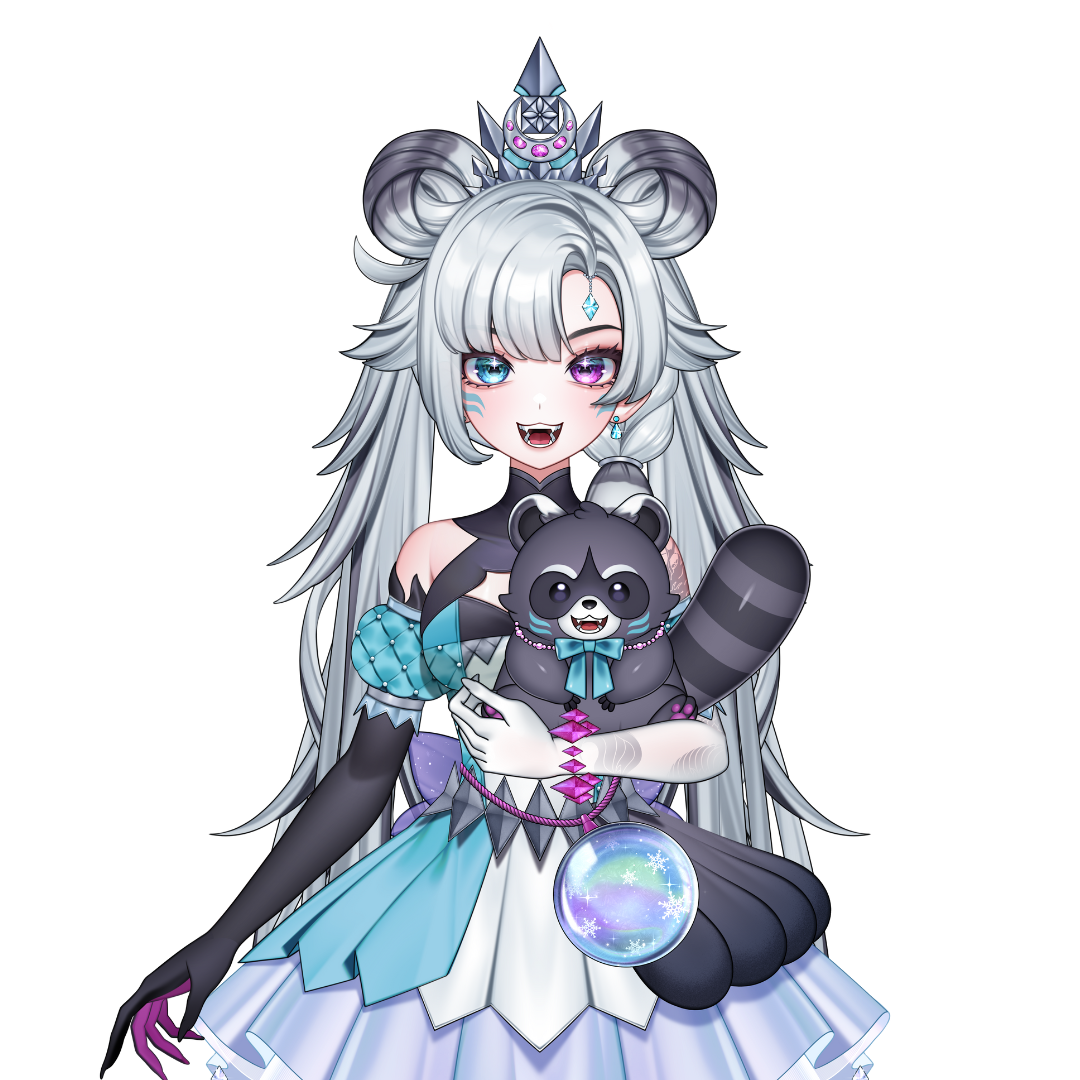
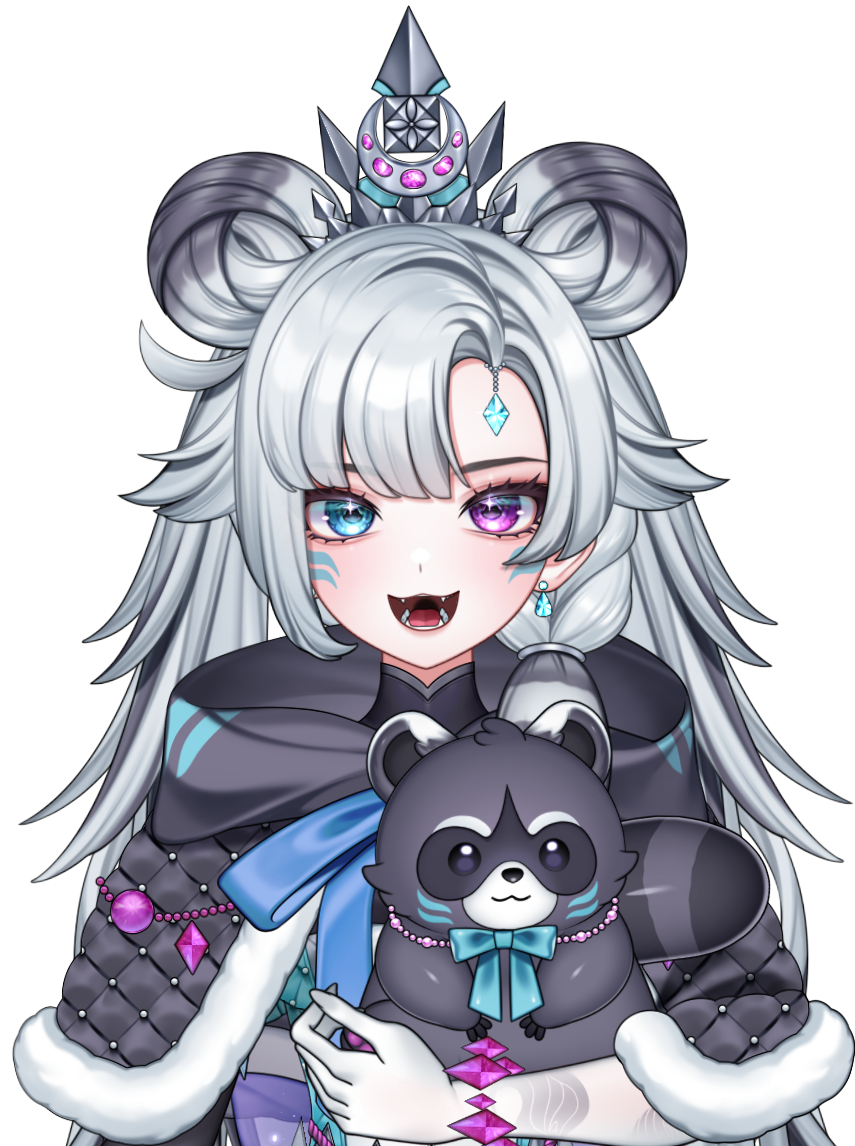
added special guests, added vtuber section, brought back and updated cosplay contest page

diff --git a/src/routes/special-guests/+page.svelte b/src/routes/special-guests/+page.svelte
@@ -1,5 +1,6 @@
 <script>
   import { guests } from './guests.js';
+  import { vtubers } from './vtuber-guests.js';
   import { fade, slide } from 'svelte/transition';
   import Navbar from '$lib/components/Navbar.svelte';
   import Footer from '$lib/components/Footer.svelte';
@@ -9,6 +10,17 @@
   const filledGuests = [
     ...guests,
     ...Array.from({ length: maxGuests - guests.length }, () => ({
+      name: "Coming Soon...",
+      socials: null,
+      image: "/images/mystery.png",
+      blurb: null,
+      comingSoon: true
+    }))
+  ];
+
+  const filledVTuberGuests = [
+    ...vtubers,
+    ...Array.from({ length: maxGuests - vtubers.length }, () => ({
       name: "Coming Soon...",
       socials: null,
       image: "/images/mystery.png",
@@ -36,6 +48,94 @@
 <div  class="container mx-auto px-4 py-12">
 <div class="grid grid-cols-1 sm:grid-cols-3 lg:grid-cols-3 gap-6 items-start">
   {#each filledGuests as guest, i (i)}
+    <div class="bg-gray-50 rounded-lg shadow flex flex-col">
+      <!-- Image area: clickable for real guests, static for coming soon -->
+          <div>
+            <!-- Clickable image -->
+            <!-- Image with overlay -->
+            <div 
+              class="relative cursor-pointer group"
+              on:click={() => toggleDescription(i)}
+            >
+              <img
+                src={guest.image}
+                alt={guest.name}
+                class="w-full aspect-square object-contain bg-gray-100"
+              />
+
+              <!-- Overlay -->
+              <div
+                class="absolute inset-0 bg-black bg-opacity-40 opacity-0 
+                      group-hover:opacity-100 transition flex items-center 
+                      justify-center text-white text-lg font-semibold"
+              >
+                Click to learn more
+              </div>
+            </div>
+
+            <!-- Name always visible -->
+            <p class="text-2xl my-2 font-semibold text-gray-900 text-center">{guest.name}</p>
+
+            <!-- Description only shows when expanded[i] is true -->
+            {#if expanded[i]}
+              <div transition:slide|local class="bg-gray-50 rounded-b-lg p-3">
+              {#if guest.blurb}
+                <p class="mt-1 text-sm text-gray-600" style="white-space: pre-line;">{guest.blurb}</p>
+              {/if}
+
+              {#if guest.socials}
+              <div class="text-center">
+                {#if guest.social_type === "instagram"}
+                <a
+                  class="inline-block mt-3 text-pink-500 hover:text-pink-600"
+                  href={guest.socials}
+                  target="_blank"
+                  rel="noopener noreferrer"
+                  aria-label="Follow on Instagram"
+                >
+                  <!-- Instagram Flat Icon SVG -->
+                  <svg
+                    xmlns="http://www.w3.org/2000/svg"
+                    viewBox="0 0 32 32"
+                    fill="currentColor"
+                    class="w-10 h-10"
+                  >
+                    <path d="M20.445 5h-8.891A6.559 6.559 0 0 0 5 11.554v8.891A6.559 6.559 0 0 0 11.554 27h8.891a6.56 6.56 0 0 0 6.554-6.555v-8.891A6.557 6.557 0 0 0 20.445 5zm4.342 15.445a4.343 4.343 0 0 1-4.342 4.342h-8.891a4.341 4.341 0 0 1-4.341-4.342v-8.891a4.34 4.34 0 0 1 4.341-4.341h8.891a4.342 4.342 0 0 1 4.341 4.341l.001 8.891z"/><path d="M16 10.312c-3.138 0-5.688 2.551-5.688 5.688s2.551 5.688 5.688 5.688 5.688-2.551 5.688-5.688-2.55-5.688-5.688-5.688zm0 9.163a3.475 3.475 0 1 1-.001-6.95 3.475 3.475 0 0 1 .001 6.95zM21.7 8.991a1.363 1.363 0 1 1-1.364 1.364c0-.752.51-1.364 1.364-1.364z"/>
+                  </svg>
+                </a>
+                {/if}
+                {#if guest.social_type === 'youtube'}
+                <a
+                  class="inline-block mt-3 text-red-500 hover:text-red-600"
+                  href={guest.socials}
+                  target="_blank"
+                  rel="noopener noreferrer"
+                  aria-label="Subscribe on YouTube"
+                >
+                <svg xmlns="http://www.w3.org/2000/svg" fill="currentColor" class="w-10 h-10" viewBox="0 0 16 15.5">
+                  <path d="M8.051 1.999h.089c.822.003 4.987.033 6.11.335a2.01 2.01 0 0 1 1.415 1.42c.101.38.172.883.22 1.402l.01.104.022.26.008.104c.065.914.073 1.77.074 1.957v.075c-.001.194-.01 1.108-.082 2.06l-.008.105-.009.104c-.05.572-.124 1.14-.235 1.558a2.01 2.01 0 0 1-1.415 1.42c-1.16.312-5.569.334-6.18.335h-.142c-.309 0-1.587-.006-2.927-.052l-.17-.006-.087-.004-.171-.007-.171-.007c-1.11-.049-2.167-.128-2.654-.26a2.01 2.01 0 0 1-1.415-1.419c-.111-.417-.185-.986-.235-1.558L.09 9.82l-.008-.104A31 31 0 0 1 0 7.68v-.123c.002-.215.01-.958.064-1.778l.007-.103.003-.052.008-.104.022-.26.01-.104c.048-.519.119-1.023.22-1.402a2.01 2.01 0 0 1 1.415-1.42c.487-.13 1.544-.21 2.654-.26l.17-.007.172-.006.086-.003.171-.007A100 100 0 0 1 7.858 2zM6.4 5.209v4.818l4.157-2.408z"/>
+                </svg>
+                </a>
+                {/if}
+                </div>
+              {/if}
+              </div>
+            {/if}
+          </div>
+      </div>
+
+          
+  {/each}
+</div>
+
+<div  class="container mx-auto px-4 py-12"></div>
+
+<div class="container mx-auto  px-4 py-4">
+    <p>We're also excited to announce our special Vtuber guest lineup for Anime Destiny 2026! Click on each image to learn about them.</p>
+  </div>
+<div  class="container mx-auto px-4 py-12"></div>
+<div class="grid grid-cols-1 sm:grid-cols-3 lg:grid-cols-3 gap-6 items-start">
+  {#each filledVTuberGuests as guest, i (i)}
     <div class="bg-gray-50 rounded-lg shadow flex flex-col">
       <!-- Image area: clickable for real guests, static for coming soon -->
           <div>

diff --git a/src/routes/cosplay-contest/+page.svelte b/src/routes/cosplay-contest/+page.svelte
@@ -6,28 +6,28 @@
   const judges = [
     
     {
-      name: "Astro (astros_here)",
+      name: "Cesseciel",
       description: "_______________",
-      intro: "Meet Astro ( astros_here ) a 55+ Award winning master level competitive cosplayer from central California! They specialize in sewing and needlework but dabbles is alot of different mediums and materials! Astro knows a plethora of techniques and skills! They have competed and judges all over the United states and have been published in magazines before! They have been cosplaying for 8 years and have made well over 30+ unique costumes! Astro is also a chronically ill/disabled and queer cosplayer who wants to carve out a space for everyone within the cosplay community! Come meet and talk shop with Astro! They are always willing to give advice on cosplay, build books and more!",
-      socialLink: "https://www.instagram.com/astros_here/",
-      socialName: "@astros_here",
-      imageUrl: "images/AnimeDestiny-2025CosplayGuestAstro.jpg"
+      intro: "Cesseciel (He/They), also known as Ciel, is a cosplayer, performer, and seamstress based in the Bay Area. He has been sewing since the age of four and has been crafting his own cosplays since he first began attending conventions in 2013. Ciel can often be found onstage performing idol dance covers or with his fellow maids at the Ai Hoshi Cafe!",
+      socialLink: "https://www.instagram.com/cesseciel",
+      socialName: "@cesseciel",
+      imageUrl: "/images/guests/Cesseciel Photo.png"
     },
     {
-      name: "Elee (theacalix)",
+      name: "Tytalis",
       description: "_______________",
-      intro: "Theacalix is a masters level cosplayer with 13 years of experience. They specialize in sewing craftsmanship builds across a variety of media with a specialty in original design. Thea loves to chat about cosplay, craftsmanship, and fandom so come say hi!",
-      socialLink: "https://www.instagram.com/theacalix/",
-      socialName: "@theacalix",
-      imageUrl: "images/AnimeDestiny-2025CosplayGuestThecalix.jpg"
+      intro: "Tytalis Cosplay has been cosplaying since 2012, and has won several awards for her work and performances from cons like Anime Los Angeles and San Diego Comic Con. Her love of cosplay inspired her to pursue engineering, and she received her Master of Engineering from UC Berkeley in 2019! She is self taught, and believes that cosplay is for everyone, and wants to inspire others to follow their passions.",
+      socialLink: "https://www.instagram.com/tytalis",
+      socialName: "@tytalis",
+      imageUrl: "/images/guests/Tytalis Photo.jpeg"
     },
     {
-      name: "Max (Deadgoatcos)",
+      name: "Cosmic Peachz",
       description: "_______________",
-      intro: "Deadgoatcos is excited for her first guesting experience. With her 7 years of cosplaying and certificate of costume design she is so happy to share her knowledge and expertise with the con goers. Thank you Anime Destiny for allowing me this opportunity. See everyone at con!!",
-      socialLink: "https://www.instagram.com/deadgoatcos/",
-      socialName: "@deadgoatcos",
-      imageUrl: "images/AnimeDestiny-2025CosplayGuestDeadgoatcos.jpg"
+      intro: "Cosmic Peachz (she/they), also known as Caroline, originally from SoCal, is now a NorCal based cosplayer who has been cosplaying since 2011, sewing since 2013 and competing since 2014. With a few awards under her belt for both sewing and performance, Cosmic Peachz is excited to see what contestants will bring to the event!",
+      socialLink: "https://www.instagram.com/cosmic.peachz",
+      socialName: "@cosmic.peachz",
+      imageUrl: "/images/guests/Cosmic Peachz Photo.jpg"
     }
   ];
 
@@ -99,6 +99,13 @@
           Join Berkeley’s cosplayers for a fun and welcoming event! Show off your cosplaying skills or just enjoy watching the amazing talent at Anime Destiny.
           Anyone who has a costume and is interested is welcome to join! Whether you're a seasoned cosplayer or it's your first time, we'd love to see you there!
           Sign up here: <a href="https://forms.gle/hXUxzeVHSgghcyyh8" target="_blank" class="section-link">Cosplay Sign-Up Form</a>  
+        </p>
+        <div class="spacer"></div>
+        <p>
+          Costume pre-judging will take place <strong>starting from 10:00AM until 11:30AM</strong> during the course of the <strong>"Cosplay Contest 101"</strong> panel with our judges! Please find the judges at any time until 11:30AM to have your costume pre-judged. <strong>*For hand-made costumes only - judging for craftsmanship*</strong>
+        </p>
+        <p>
+          We encourage all interested participants to attend the Cosplay Contest 101 panel with our judges from 10:00AM - 11:30AM regardless, so you can learn more about the contest and what the judges might be looking for!
         </p>
         <div class="spacer"></div>
         <p>

diff --git a/src/routes/special-guests/guests.js b/src/routes/special-guests/guests.js
@@ -33,5 +33,19 @@ export const guests = [
     "social_type":"instagram",
     "image":"/images/guests/Miaucosplay Photo.jpeg",
     "blurb":"meow"
+  },
+  {
+    "name":"Pearl",
+    "socials":"https://www.instagram.com/pearl.viper",
+    "social_type":"instagram",
+    "image":"/images/guests/Pearl Viper Photo.jpg",
+    "blurb":"Hi!! I’m Pearl (@Pearl.Viper)! I’ve been cosplaying since 2022 and am a HUGE Black Clover fan, but I also love NIKKE, Zenless Zone Zero, and all things anime and gacha games! My favorite part of cosplay is bringing characters I love to life and connecting with others who share the same passions. I’m a big believer that cosplay is for everyone, and I hope to help create a positive and inclusive community where everyone feels welcome to express themselves and celebrate the characters they love! ♡ Photo by @rebecca.simpp on instagram"
+  },
+  {
+    "name":"Cosmic Peachz",
+    "socials":"https://www.instagram.com/cosmic.peachz",
+    "social_type":"instagram",
+    "image":"/images/guests/Cosmic Peachz Photo.jpg",
+    "blurb":"Cosmic Peachz (she/they), also known as Caroline, originally from SoCal, is now a NorCal based cosplayer who has been cosplaying since 2011, sewing since 2013 and competing since 2014. With a few awards under her belt for both sewing and performance, Cosmic Peachz is excited to see what contestants will bring to the event!"
   }
 ];

diff --git a/src/lib/components/Navbar.svelte b/src/lib/components/Navbar.svelte
@@ -87,7 +87,9 @@
     <!-- Dropdown Menu -->
     {#if isProgrammingOpen}
   <div class="dropdown-menu" in:fade={{ duration: 200 }} out:fade={{ duration: 300 }}>
-    <div class="sub-links">To Be Announced - Stay Tuned!</div>
+    <!--keep this here for now, remove once the schedule part of the navbar is completed-->
+    <a href="/cosplay-contest">Cosplay Contest</a>
+    <!--<div class="sub-links">To Be Announced - Stay Tuned!</div>-->
 
     <!-- Category: 3rd Floor - Stephens Hall -->
     <!--
@@ -183,7 +185,7 @@
       <a href="/artists" on:click={closeMenu} in:fade={{ duration: 500 }}>Artist Alley</a>
       <a href="/special-guests" on:click={closeMenu} in:fade={{ duration: 500 }}>Special Guests</a>
       <a href="/programming" on:click={closeMenu} in:fade={{ duration: 500 }}>Programming</a>
-      <!--<a href="/cosplay-contest" on:click={closeMenu} in:fade={{ duration: 500 }}>Cosplay Contest</a>-->
+      <a href="/cosplay-contest" on:click={closeMenu} in:fade={{ duration: 500 }}>Cosplay Contest</a>
       <a href="/rules">Rules</a>
       <a href="/sponsors">Sponsors</a>
       

diff --git a/src/routes/special-guests/vtuber-guests.js b/src/routes/special-guests/vtuber-guests.js
@@ -1,0 +1,9 @@
+export const vtubers = [
+  {
+    "name":"Kōri-Oujo",
+    "socials":"https://www.twitter.com/korioujo",
+    "social_type":"twitter",
+    "image":"/images/guests/Kori-Oujo.png",
+    "blurb":"Kōri-Oujo is a VTuber who is Twitch affiliate and YouTube partner, focused on becoming a leading face of IRL event VTubing, blending live event–style streams with highly interactive, community-driven content. As a raccoon that got isekai’d into an ice princess, Kōri displays her passion for storytelling across all mediums, with a silly chaotic flair. Her programming centers on Just Chatting and participation-based streams, where real-time audience engagement is the core experience. To balance long-form interaction, she also incorporates gameplay, primarily single-player, narrative-focused titles, as challenge-driven and story-led entertainment. In addition to livestreaming, Kōri has participated and hosted in multiple IRL VTuber concerts, reinforcing her long-term goal of bridging virtual performance with real-world event experiences."
+  }
+];

diff --git a/src/lib/components/Footer.svelte b/src/lib/components/Footer.svelte
@@ -23,7 +23,7 @@
 
 
 
-  <p class="py-2">© 2025 Anime Destiny and Cal Animage Alpha. All rights reserved.</p>
+  <p class="py-2">© 2026 Anime Destiny and Cal Animage Alpha. All rights reserved.</p>
 
   </div>
   
